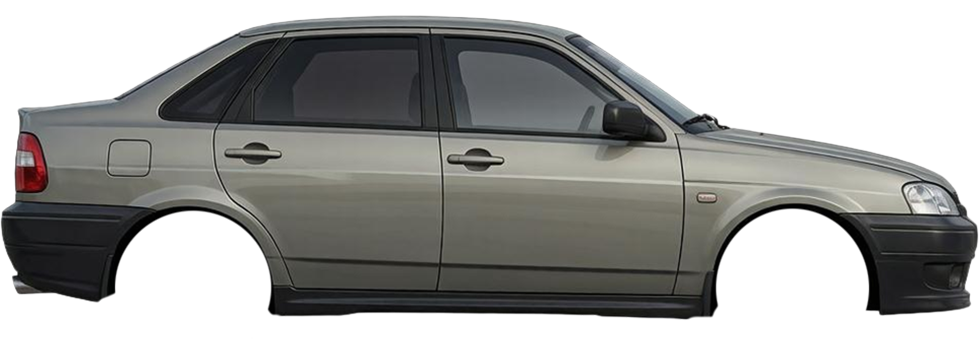
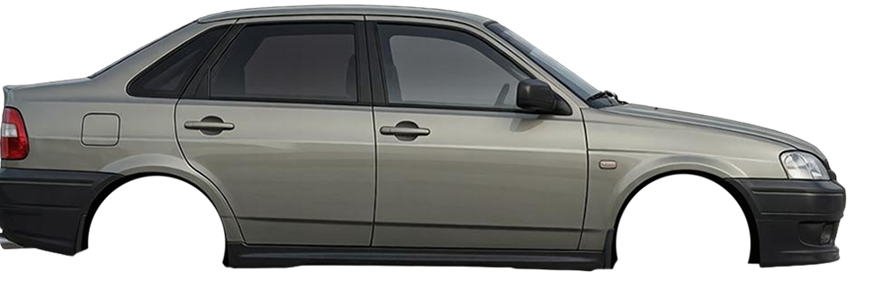
выравнивание машин

Changed region(s): [[0.0, 0.0, 1.0, 0.9588]]

diff --git a/src/style/car.css b/src/style/car.css
@@ -5,87 +5,77 @@
   left: 0;
   width: 100vw;
   height: 100dvh;
-  /* Запрещаем выделение элементов и скролл */
   overflow: hidden;
   pointer-events: none;
 }
 
-/* Контейнер машины — якорь по линии дороги, колёса на асфальте */
+/* Общая разметка модели — геометрия задаётся модификаторами --player / --traffic */
 .car_container {
-  position: absolute;
-  top: var(--car-lane-y);
-  left: 30px;
-  width: 250px;
   height: auto;
+}
+
+.car_container--standalone {
+  position: absolute;
+  left: 30px;
   transform: translateY(calc(-100% + var(--car-wheel-offset)));
 }
 
-.car_container--player {
-  top: var(--player-car-lane-y);
-}
-
-/* Внутри quest-car-other позиционирование делает обёртка */
 .car_container--nested {
   position: relative;
   top: auto;
   left: auto;
+  width: 100%;
   transform: none;
 }
 
-/* Кузов занимает 100% ширины контейнера и задает его реальную высоту */
 .car-body {
   display: block;
   width: 100%;
   height: auto;
+  position: relative;
+  z-index: 1;
+  transform: translateY(var(--car-body-lift));
 }
 
-/* Общие стили для колес — размеры и позиции строго в процентах от кузова! */
 .left-shell,
 .right-shell {
   position: absolute;
-  /* Ширина колеса в процентах от ширины всей машины */
-  width: 20%;
+  width: var(--car-wheel-size);
   height: auto;
-  /* Опускаем колеса к нижней кромке кузова */
-  /* bottom: -11%; */
+  bottom: var(--car-wheel-bottom);
+  z-index: 0;
 }
 
-/* Точное позиционирование по осям колес (подобрать под ваш спрайт кузова) */
 .left-shell {
-  left: 9%; /* Переднее или заднее колесо слева */
+  left: var(--car-wheel-left);
 }
 
 .right-shell {
-  left: 69%; /* Второе колесо справа */
+  left: var(--car-wheel-right);
 }
 
 .sirena-car-on {
   position: absolute;
   width: 35px;
-  /* height: 6px; */
   top: 2px;
   left: 38%;
   background-color: transparent;
   border: none;
-  /* border-radius: 50%; */
   animation: anim_siren_in_car 1.5s infinite ease-in-out;
 }
 
 @keyframes anim_siren_in_car {
   0% {
-    /* Синее неоновое свечение. Первое число — плотное, второе — рассеянное */
     box-shadow:
       0px 0px 10px 4px #0055ff,
       0px 0px 25px 8px #0022aa;
   }
   50% {
-    /* Красное неоновое свечение */
     box-shadow:
       0px 0px 10px 4px #ff0000,
       0px 0px 25px 8px #aa0000;
   }
   100% {
-    /* Возврат к синему */
     box-shadow:
       0px 0px 10px 4px #0055ff,
       0px 0px 25px 8px #0022aa;
@@ -97,8 +87,6 @@
 }
 
 .car_container--headlights .car-body {
-  position: relative;
-  z-index: 1;
   filter: drop-shadow(0 0 6px rgba(255, 248, 200, 0.35));
 }
 

diff --git a/src/components/car/CarModel.jsx b/src/components/car/CarModel.jsx
@@ -1,37 +1,41 @@
 import { observer } from "mobx-lite";
 import React from "react";
 
-export const CarModel = observer(({ carStore, typeBody, showHeadlights = false }) => {
-  const containerClass =
-    typeBody === 1
-      ? "car_container car_container--nested"
-      : "car_container car_container--player";
+/**
+ * @param {"player" | "traffic"} variant — спрайт и геометрия (кузов, колёса)
+ * @param {boolean} nested — внутри обёртки (.quest-car-other / .quest-car), без абсолютного позиционирования
+ */
+export const CarModel = observer(
+  ({ carStore, variant = "traffic", nested = false, showHeadlights = false }) => {
+    const containerClass = [
+      "car_container",
+      `car_container--${variant}`,
+      nested ? "car_container--nested" : "car_container--standalone",
+      showHeadlights ? "car_container--headlights" : "",
+    ]
+      .filter(Boolean)
+      .join(" ");
 
-  return (
-    <div
-      className={`${containerClass}${showHeadlights ? " car_container--headlights" : ""}`}
-    >
-      {showHeadlights && <div className="car-headlight-beam" aria-hidden="true" />}
-      <div className={carStore.sirena ? "sirena-car-on" : null}></div>
-      <img src={carStore.urlBody} alt="Кузов" className="car-body" />
-      <img
-        src={carStore.urlShell}
-        alt="Колесо"
-        className="left-shell"
-        style={{
-          transform: `rotate(${carStore.wheelRotation}deg)`,
-          bottom: "-11%",
-        }}
-      />
-      <img
-        src={carStore.urlShell}
-        alt="Колесо"
-        className="right-shell"
-        style={{
-          transform: `rotate(${carStore.wheelRotation}deg)`,
-          bottom: "-11%",
-        }}
-      />
-    </div>
-  );
-});
+    return (
+      <div className={containerClass}>
+        {showHeadlights && (
+          <div className="car-headlight-beam" aria-hidden="true" />
+        )}
+        <div className={carStore.sirena ? "sirena-car-on" : null}></div>
+        <img src={carStore.urlBody} alt="Кузов" className="car-body" />
+        <img
+          src={carStore.urlShell}
+          alt="Колесо"
+          className="left-shell"
+          style={{ transform: `rotate(${carStore.wheelRotation}deg)` }}
+        />
+        <img
+          src={carStore.urlShell}
+          alt="Колесо"
+          className="right-shell"
+          style={{ transform: `rotate(${carStore.wheelRotation}deg)` }}
+        />
+      </div>
+    );
+  },
+);

diff --git a/src/style/ui-tokens.css b/src/style/ui-tokens.css
@@ -25,9 +25,27 @@
   /* Нижняя полоса — квестовый / AI трафик */
   --car-lane-y: 56%;
   /* Ещё ниже — полицейская машина игрока (отдельная полоса, без наложения) */
-  --player-car-lane-y: 62%;
-  /* Колёса в CarModel bottom:-11% — компенсация для посадки на асфальт */
+  --player-car-lane-y: 69%;
+  /* Колёса — компенсация для посадки на асфальт (контейнер) */
   --car-wheel-offset: 11%;
+
+  /* --- Машина игрока (police/body.png) --- */
+  --player-car-width: 250px;
+  --player-car-wheel-offset: 11%;
+  --player-car-body-lift: 0%;
+  --player-car-wheel-bottom: -11%;
+  --player-car-wheel-size: 21%;
+  --player-car-wheel-left: 9%;
+  --player-car-wheel-right: 69%;
+
+  /* --- Квестовый трафик (other/*.png) --- */
+  --traffic-car-width: 250px;
+  --traffic-car-wheel-offset: 11%;
+  --traffic-car-body-lift: 0%;
+  --traffic-car-wheel-bottom: -11%;
+  --traffic-car-wheel-size: 19%;
+  --traffic-car-wheel-left: 8%;
+  --traffic-car-wheel-right: 69%;
 
   /* Вертикальный сдвиг всего слоя карты (mobile: media.css) */
   --map-shift-y: 0;

diff --git a/src/style/player-car.css b/src/style/player-car.css
@@ -1,0 +1,20 @@
+/* Машина игрока — police/body.png, shell_1.png */
+
+.car_container--player {
+  --car-wheel-offset: var(--player-car-wheel-offset);
+  --car-body-lift: var(--player-car-body-lift);
+  --car-wheel-bottom: var(--player-car-wheel-bottom);
+  --car-wheel-size: var(--player-car-wheel-size);
+  --car-wheel-left: var(--player-car-wheel-left);
+  --car-wheel-right: var(--player-car-wheel-right);
+
+  width: var(--player-car-width);
+}
+
+.car_container--player.car_container--standalone {
+  top: var(--player-car-lane-y);
+}
+
+.car_container--player .sirena-car-on {
+  transform: translateY(var(--player-car-body-lift));
+}

diff --git a/src/components/game/QuestArrestModal.jsx b/src/components/game/QuestArrestModal.jsx
@@ -87,11 +87,13 @@ export const QuestArrestModal = observer(({ mapStore, carStore }) => {
       <AtmosphereOverlay />
 
       <div className="quest-arrest-target-car">
-        {targetCarStore && <CarModel carStore={targetCarStore} typeBody={0} />}
+        {targetCarStore && (
+          <CarModel carStore={targetCarStore} variant="traffic" nested />
+        )}
       </div>
 
       <div className="quest-arrest-police-car">
-        <CarModel carStore={policeCarStore} typeBody={0} />
+        <CarModel carStore={policeCarStore} variant="player" nested />
       </div>
 
       {mapStore.arrestAnimFinished && finishPhase === "idle" && (

diff --git a/src/style/quest_car.css b/src/style/quest_car.css
@@ -2,7 +2,7 @@
   position: absolute;
   top: var(--car-lane-y);
   left: 0;
-  width: 250px;
+  width: var(--traffic-car-width);
   height: auto;
   transform: translateY(calc(-100% + var(--car-wheel-offset)));
   z-index: 50;
@@ -11,7 +11,7 @@
 /* 
 .quest-car-enemy {
   position: absolute;
-  width: 250px;
+  width: var(--traffic-car-width);
   height: auto;
   top: 58%;
   z-index: 50;
@@ -20,7 +20,7 @@
 
 .quest-car-civilian {
   position: absolute;
-  width: 250px;
+  width: var(--traffic-car-width);
   height: auto;
   top: 58%;
   z-index: 50;

diff --git a/src/style/traffic-car.css b/src/style/traffic-car.css
@@ -1,0 +1,12 @@
+/* Квестовый / AI трафик — other/*.png */
+
+.car_container--traffic {
+  --car-wheel-offset: var(--traffic-car-wheel-offset);
+  --car-body-lift: var(--traffic-car-body-lift);
+  --car-wheel-bottom: var(--traffic-car-wheel-bottom);
+  --car-wheel-size: var(--traffic-car-wheel-size);
+  --car-wheel-left: var(--traffic-car-wheel-left);
+  --car-wheel-right: var(--traffic-car-wheel-right);
+
+  width: var(--traffic-car-width);
+}

diff --git a/src/components/game/PedestrianCrossingModal.jsx b/src/components/game/PedestrianCrossingModal.jsx
@@ -223,7 +223,7 @@ export const PedestrianCrossingModal = observer(({ mapStore, carStore }) => {
         className="quest-car"
         style={{ left: `${mapStore.pedestrianCarPosition}px` }}
       >
-        <CarModel carStore={modalCarStore.current} typeBody={1} />
+        <CarModel carStore={modalCarStore.current} variant="player" nested />
       </div>
       <div
         className="quest-pedestrian"

diff --git a/src/components/game/PoliceQuestModal.jsx b/src/components/game/PoliceQuestModal.jsx
@@ -171,7 +171,7 @@ export const PoliceQuestModal = observer(({ mapStore, carStore }) => {
         className="quest-car"
         style={{ left: `${mapStore.questCarPosition}px` }}
       >
-        <CarModel carStore={policeCarStore.current} typeBody={1} />
+        <CarModel carStore={policeCarStore.current} variant="player" nested />
       </div>
 
       {/* Целевой объект справа */}

diff --git a/src/style/media.css b/src/style/media.css
@@ -1,14 +1,7 @@
 @media (max-height: 600px) {
-  .car_container:not(.car_container--nested) {
-    width: 220px;
-  }
-
-  .quest-car-other {
-    width: 220px;
-  }
-
-  .quest-car {
-    width: 220px;
+  :root {
+    --player-car-width: 220px;
+    --traffic-car-width: 220px;
   }
 }
 /* ==========================================================================

diff --git a/src/components/car/Car.jsx b/src/components/car/Car.jsx
@@ -83,7 +83,11 @@ export const Car = observer(({ carStore, showHeadlights = false }) => {
         </div>
       </div>
 
-      <CarModel carStore={carStore} typeBody={0} showHeadlights={showHeadlights} />
+      <CarModel
+        carStore={carStore}
+        variant="player"
+        showHeadlights={showHeadlights}
+      />
     </div>
   );
 });

diff --git a/src/components/game/QuestCar.jsx b/src/components/game/QuestCar.jsx
@@ -15,7 +15,8 @@ export const QuestCar = observer(({ questCarStore, showHeadlights = false }) => 
     >
       <CarModel
         carStore={questCarStore}
-        typeBody={1}
+        variant="traffic"
+        nested
         showHeadlights={showHeadlights}
       />
     </div>
